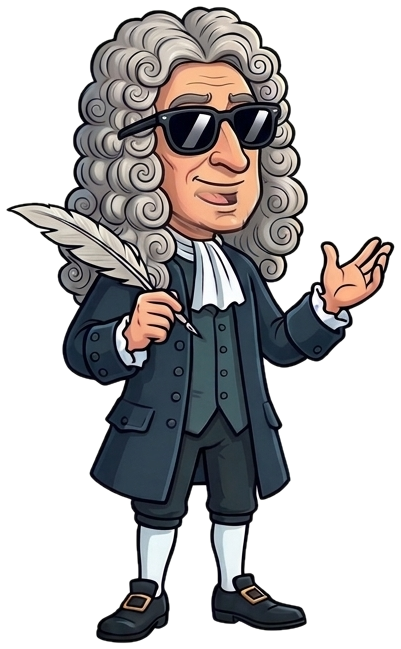
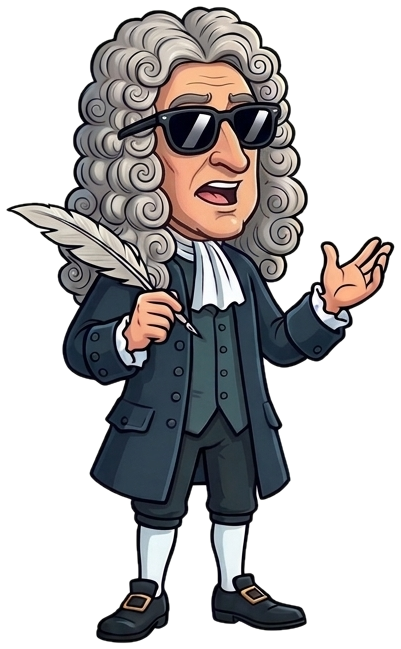
Rig: la boca se injerta en la zona que realmente cambia (corrige boca duplicada con lentes)
Claude-Session: https://claude.ai/code/session_019Y3ysX8DUcr45i1r89UDTx

Changed region(s): [[0.419, 0.3082, 0.6284, 0.4006], [0.389, 0.2465, 0.5985, 0.3082], [0.6284, 0.2157, 0.6584, 0.339]]

diff --git a/pipeline/rig_newton.py b/pipeline/rig_newton.py
@@ -89,6 +89,22 @@ def regions(box):
     return mouth, eyes
 
 
+def diff_region(base, var, pad=10):
+    """Zona donde la variante cambia respecto a la base (la boca o los ojos), ya alineadas."""
+    d = np.abs(base[..., :3].astype(int) - var[..., :3].astype(int)).sum(axis=2)
+    both = (base[..., 3] > 200) & (var[..., 3] > 200)
+    m = ndimage.binary_opening((d > 60) & both, iterations=1)
+    m = ndimage.binary_dilation(m, iterations=6)
+    lab, n = ndimage.label(m)
+    if n == 0:
+        return None
+    sizes = ndimage.sum(m, lab, range(1, n + 1))
+    sl = ndimage.find_objects(lab)[int(np.argmax(sizes))]
+    h, w = m.shape
+    return (max(0, sl[0].start - pad), min(h, sl[0].stop + pad),
+            max(0, sl[1].start - pad), min(w, sl[1].stop + pad))
+
+
 def build(pose, base_path, closed, opened, blink):
     out_dir = os.path.join(ART, "newton", "rig", pose)
     os.makedirs(out_dir, exist_ok=True)
@@ -100,7 +116,8 @@ def build(pose, base_path, closed, opened, blink):
             continue
         base, var, box = fit_variant(base_img, Image.open(path).convert("RGBA"))
         mouth, eyes = regions(box)
-        res = graft(base, var, mouth if which == "mouth" else eyes)
+        region = diff_region(base, var) or (mouth if which == "mouth" else eyes)
+        res = graft(base, var, region, feather=4)
         Image.fromarray(res).save(os.path.join(out_dir, f"{name}.png"))
     print("rig:", pose)
 
